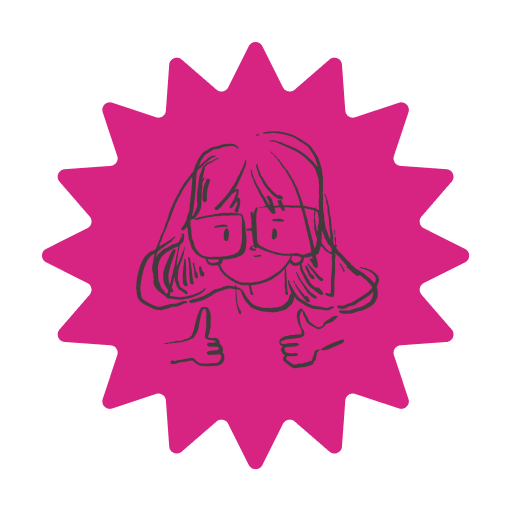
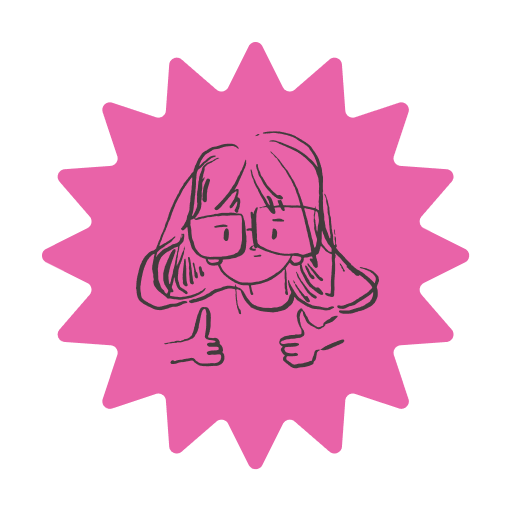
Use a softer pink, #E963A8

diff --git a/src/app.css b/src/app.css
@@ -45,7 +45,7 @@
 	--line: #aeaeae;
 	--card: #ffffff;
 	--sun: #f9e278; /* starburst yellow */
-	--pink: #d72483;
+	--pink: #e963a8;
 	--pink-soft: color-mix(in srgb, var(--pink) 30%, var(--bg)); /* menu hover */
 	--blue: #1789fc;
 	--shadow: 0 1px 6px rgba(65, 60, 50, 0.14);
